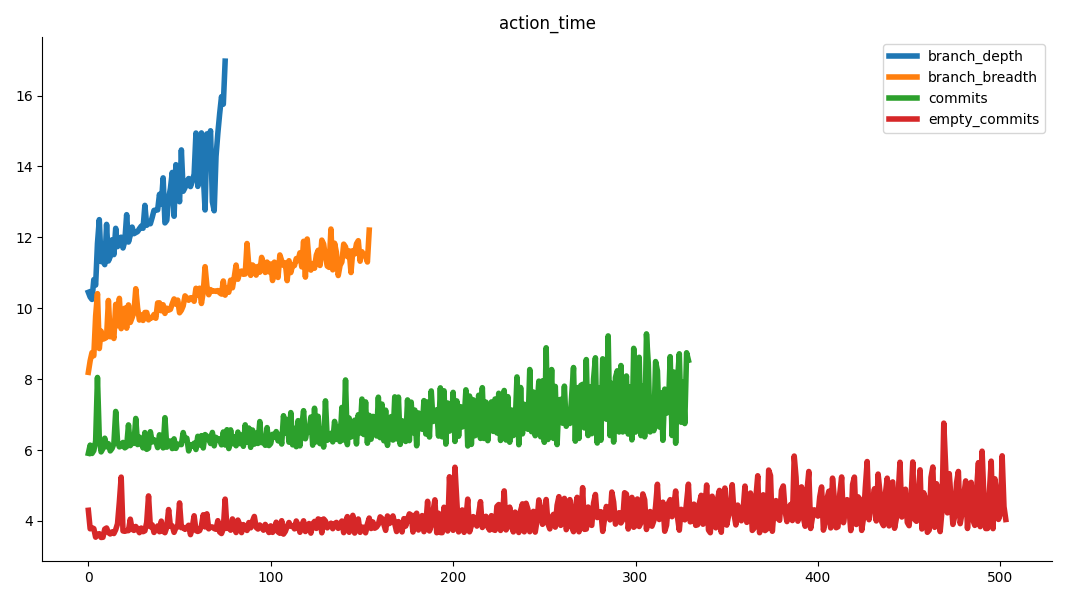
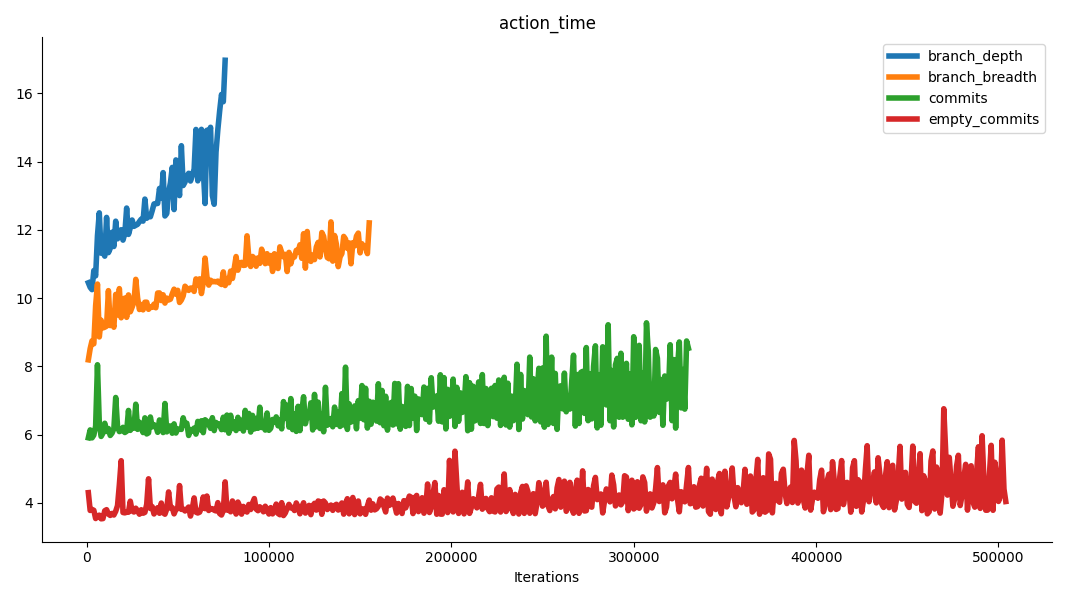
Update images with labeled axes

diff --git a/A0_plot_file_size.py b/A0_plot_file_size.py
@@ -19,11 +19,15 @@ for key in ["compress_time", "interval_time", "action_time"]:
         f_csv = Path(v) / "status_log.csv"
         df = pd.read_csv(f_csv)
 
-        plt.plot(df[key], label=k, lw=4)
+        plt.plot(df['n_commits'], df[key], label=k, lw=4)
 
     plt.legend()
     sns.despine()
     plt.title(key)
+    plt.xlabel("Iterations")
+    plt.ylabel("Time (seconds)")
+    
+    plt.ylabel("")
     plt.tight_layout()
     plt.savefig(f"docs/{key}.png")
 
